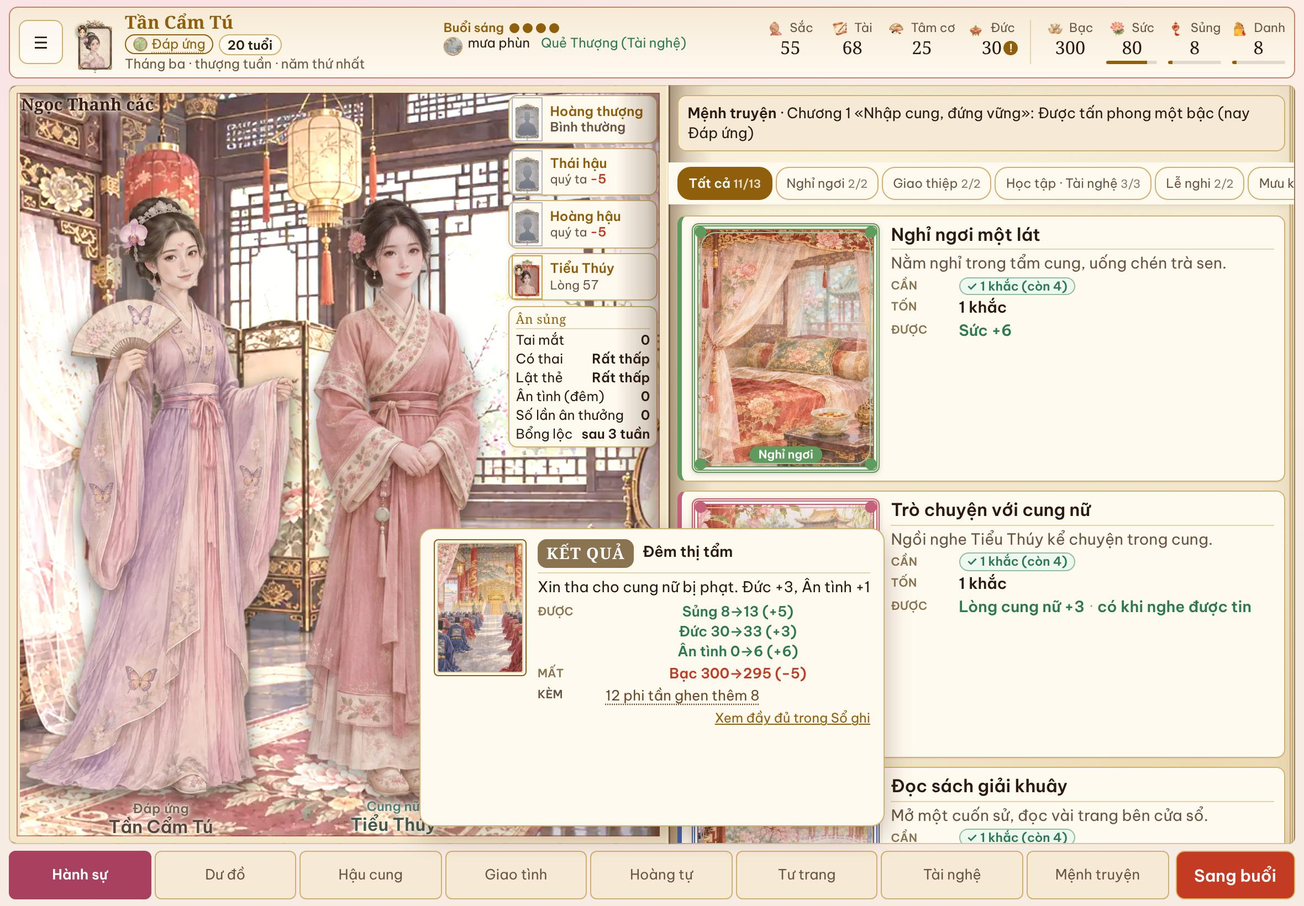
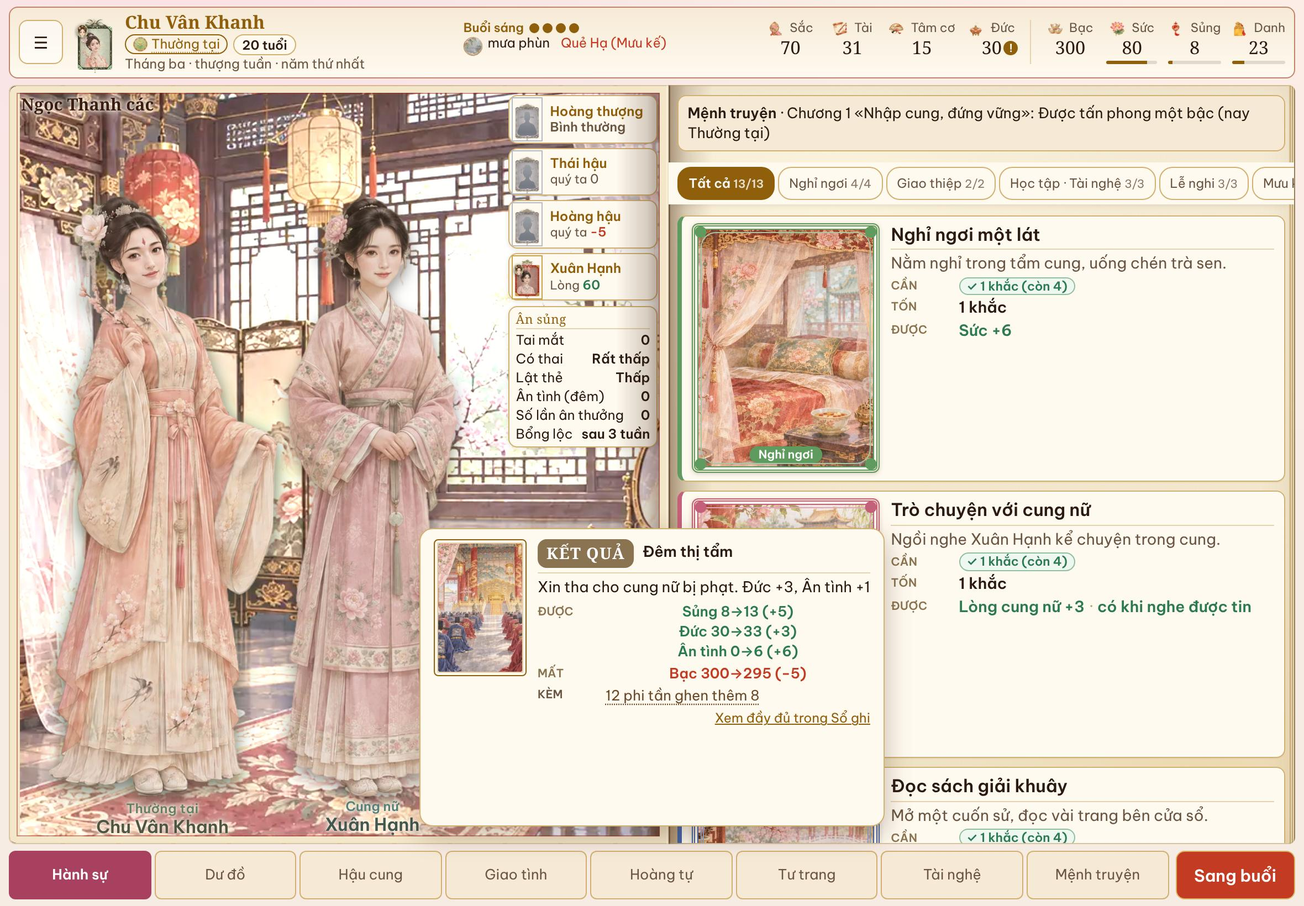
Lựa chọn sự kiện: giữ chế độ chỉ hiện giá (KIT 28.6, sếp đổi lại) + một dòng Gợi ý bằng chữ và nhãn rủi ro; thẻ kết quả giữ dấu theo lượt gieo và dòng Kèm
- jk2b: hoàn lại chế độ "cost" mặc định cho mọi lựa chọn sự kiện (chỉ Tốn / Cần, "Tốn: không" khi miễn phí — đúng thiết kế 28.6).
- Mới (sếp duyệt): mỗi lựa chọn sự kiện có dòng "Gợi ý" (kitHintOf) dựng từ chính các dòng kết cục thật của lựa chọn ở thời điểm này
  (người, cơ may, trạng thái hiện tại) ngay trước khi ẩn — không số, không nói dối, đổi theo bối cảnh; độ rõ theo Tâm cơ / Tai mắt
  (BAL.hintMid 25 / hintSharp 45 / hintMat 3): mơ hồ → rõ việc → gọi tên người phản ứng. Nhãn rủi ro an toàn / có rủi ro / liều từ chữ
  cơ may của chính lựa chọn. Lựa chọn có thể tự đặt hint / risk.
- Giữ từ trước: dấu THÀNH/HỎNG chỉ theo lượt gieo, không gieo → "KẾT QUẢ"; ghen/oán của người khác → dòng Kèm thu gọn.
- KIT 28.6 viết lại. Kiểm dev/test/opt-render.js: mọi PEND dựng được — 0 lỗi (có Tốn/Cần, có gợi ý không chữ số, có nhãn rủi ro, không
  Được/Mất/cơ may); cùng lựa chọn ở Tâm cơ 5 / 30 / 70 cho gợi ý mơ hồ / rõ / gọi tên (giu: "có lợi về lòng người trên" → "người trên
  hài lòng" → "Thái hậu hài lòng"); đêm có lợi + 12 người ghen → KẾT QUẢ, Kèm thu gọn.

Claude-Session: https://claude.ai/code/session_01V1ZZH1F24tkuejhCvtXqV8

diff --git a/dev/build/jk2b.js b/dev/build/jk2b.js
@@ -196,22 +196,77 @@ kitFigRects=function(){const st=$("stage");if(!st)return[];const out=[];st.query
    Use (data only): a Q / kitModal item with `hideOut:true` (every option) or an option with `hideOut:true`; any priced button may also carry
    `data-khide="1"`. An option with no such cost reads "Tốn: không". ---------- */
 const KIT_COSTRE=/khắc|\bSức\b|\bBạc\b|\bbạc\b/i;
+/* ---------- 6b. THE WORD HINT + RISK TAG on a hidden-outcome option (owner 11/15, KIT 28.6) ----------
+   Read from the option's OWN outcome rows (built by kaNorm1 from its real x / j67 text: the current odds and people of THIS moment) just
+   before they are hidden — so the hint is true for the current context and never a number. Clarity by her Tâm cơ / Tai mắt (BAL.hint*):
+   vague (only "có lợi về …" + "có cái giá"), plain (what changes), sharp (who reacts: Thái hậu, Hoàng hậu, the rival by name, Hoàng thượng).
+   Risk tag from the option's own odds word: none → "an toàn"; Liều / Khó → "liều"; any other ladder word → "có rủi ro".
+   An option may carry its own `hint` (string, or fn(level) → string) and `risk` ("an toàn" | "có rủi ro" | "liều"). */
+const KIT_HINT_LADDER=/(Liều|Khó|Năm ăn năm thua|Khá chắc|Rất chắc|Nắm chắc|Chắc)/;
+function kitHintLevel(){try{const t=S.tamco||0,m=S.mat||0;const B=typeof BAL==="object"?BAL:{};if(t>=(B.hintSharp||45)||m>=(B.hintMat||3))return 2;if(t>=(B.hintMid||25))return 1}catch(e){}return 0}
+/* one outcome phrase (numbers stripped) → [area, plain words, sharp words, sign] */
+function kitHintPhrase(t,sign){t=String(t||"").replace(/\s+/g," ").trim();if(!t)return null;const up=sign>0;const nm=(t.match(/^([^:]+?)\s+(?:Sủng|Danh|bớt|ghen|oán|quý)/)||[])[1]||"";
+ const L=[[/Thái hậu/i,"lòng người trên",up?"người trên hài lòng":"người trên phật ý",up?"Thái hậu hài lòng":"Thái hậu để bụng"],
+  [/Hoàng hậu/i,"lòng người trên",up?"người trên hài lòng":"người trên phật ý",up?"Hoàng hậu hài lòng":"Hoàng hậu sẽ để bụng"],
+  [/(^|\s)(nàng|hắn) Sủng|Sủng của|bớt sủng/i,"thế đối thủ",up?"đối thủ thất thế":"đối thủ được lợi",up?(nm&&!/^(nàng|hắn)$/.test(nm)?`${nm} thất thế`:"đối thủ thất thế"):"đối thủ được lợi"],
+  [/ghen|oán|ghét/i,"lòng người",up?"dễ kết oán":"nguôi giận",up?(nm?`${nm} sẽ thù`:"có kẻ sẽ thù"):(nm?`${nm} nguôi giận`:"có kẻ nguôi giận")],
+  [/quý ngươi|quý ta|thiện cảm|thân/i,"lòng người",up?"được lòng người":"mất lòng người",up?(nm?`${nm} ưa ngươi hơn`:"người ấy ưa ngươi hơn"):(nm?`${nm} không ưa ngươi`:"người ấy không ưa ngươi")],
+  [/chứng cứ/i,"thế mưu",up?"nắm thêm thóp":"lộ sơ hở",up?"nắm thêm thóp kẻ khác":"để lộ sơ hở"],
+  [/nghi|đa nghi|giận|quở|trách|phạt|giáng|cấm túc/i,"thánh ý",up?"được tin":"có thể bị nghi, bị phạt",up?"Hoàng thượng thêm tin":"Hoàng thượng có thể sinh nghi, trách phạt"],
+  [/thương con|hoàng tử|công chúa|\bcon\b/i,"phúc con cái",up?"con được thương":"con thiệt",up?"Hoàng thượng thương con hơn":"con bị lạnh nhạt"],
+  [/Ân tình/i,"tình nghĩa",up?"thêm tình nghĩa":"sứt mẻ tình nghĩa",up?"thêm tình nghĩa với Hoàng thượng":"sứt mẻ tình nghĩa với Hoàng thượng"],
+  [/Sủng|được ưa|thị tẩm/i,"ân sủng",up?"được để mắt":"bị lạt lẽo",up?"Hoàng thượng để mắt hơn":"Hoàng thượng lạt lẽo đi"],
+  [/Danh/i,"thể diện",up?"thêm thể diện":"mất thể diện",up?"thêm thể diện trong cung":"mất thể diện trước lục cung"],
+  [/Đức/i,"tiếng tốt",up?"được tiếng hiền":"mang tiếng ác",up?"được tiếng hiền đức":"mang tiếng thất đức"],
+  [/Bạc|lì xì/i,"tiền bạc",up?"có thêm bạc":"hao bạc",up?"có thêm bạc":"hao bạc"],
+  [/Sức|nghỉ/i,"sức khỏe",up?"dưỡng sức":"hao sức",up?"dưỡng sức":"hao sức"],
+  [/Sắc|Tài|Tâm cơ|Tai mắt|tài nghệ/i,"bản thân",up?"bản thân khá lên":"bản thân sút đi",up?"bản thân khá lên":"bản thân sút đi"],
+  [/Thái y|thuốc|bệnh|ốm|thai/i,"thân thể",up?"thân thể được giữ":"thân thể bị hại",up?"thân thể được giữ":"thân thể bị hại"]];
+ for(const [re,area,p1,p2] of L)if(re.test(t))return[area,p1,p2,sign];return["chuyện khác",up?"có lợi":"có hại",up?"có lợi":"có hại",sign]}
+function kitHintText(gain,loss,lv){const uniq=a=>[...new Set(a.filter(Boolean))];
+ if(lv===0){const ga=uniq(gain.map(x=>x[0])).slice(0,2),la=loss.length;
+  return (ga.length?`có lợi về ${ga.join(", ")}`:"chẳng được gì rõ")+(la?", nhưng có cái giá":"")}
+ const pick=x=>x[lv===2?2:1];const g=uniq(gain.map(pick)).slice(0,2),l=uniq(loss.map(pick)).slice(0,2);
+ return (g.length?g.join(", "):"không được gì rõ")+(l.length?`; nhưng ${l.join(", ")}`:"")}
+function kitHintOf(b,o){const rows={};b.querySelectorAll(".kb .kr").forEach(r=>{const l=((r.querySelector(".krl")||{}).textContent||"").trim();const v=r.querySelector(".krv");if(!v)return;
+  const parts=[...v.querySelectorAll(".ef, .kitem")].map(e=>e.textContent.trim()).filter(Boolean);(rows[l]=rows[l]||[]).push(...(parts.length?parts:[v.textContent.trim()]))});
+ const odText=((b.querySelector(":scope > .kat > .kodds")||{}).textContent||"")+" "+String(o&&o.x||"")+" "+String(o&&o.j67||"");
+ const od=(odText.match(KIT_HINT_LADDER)||[])[1]||"";const canFail=!!od||!!(rows["Mất"]&&/hỏng|không thành/i.test(String(o&&o.x||"")));
+ const risk=o&&o.risk?o.risk:!canFail?"an toàn":/^(Liều|Khó)$/.test(od)?"liều":"có rủi ro";
+ const lv=kitHintLevel();let hint="";
+ if(o&&o.hint)hint=typeof o.hint==="function"?o.hint(lv):String(o.hint);
+ else{const sg=s=>/(^|\s)[−-]\d|\bbớt\b|giảm/.test(s)?-1:1;
+  const gain=[],loss=[];(rows["Được"]||[]).concat(rows["Thành"]||[]).forEach(t=>{const s=sg(t);const p=kitHintPhrase(t,s);if(!p)return;/* a loss of someone else listed as her gain ("nàng Sủng -10") reads as the rival's fall */
+   if(/(^|\s)(nàng|hắn) |của /i.test(t)&&s<0)gain.push(kitHintPhrase(t,1));else(s>0?gain:loss).push(p)});
+  (rows["Mất"]||[]).concat(rows["Hỏng"]||[],rows["Kèm"]||[]).forEach(t=>{if(/không mất gì|không tốn gì/i.test(t))return;const s=sg(t);const up=/ghen|oán|ghét/i.test(t)?1:-1;
+   const p=kitHintPhrase(t,/ghen|oán|ghét/i.test(t)?(s>0?1:-1):(s>0&&!/(^|\s)[−-]\d/.test(t)&&!/nghi|phạt|trách|giận|quở/i.test(t)?-1:-1));if(p)loss.push(p);void up});
+  hint=kitHintText(gain,loss,lv)}
+ return{hint,risk}}
 function kitHideOut(b){try{if(!b||!b.classList.contains("ka")||b.dataset.khid==="1")return;b.dataset.khid="1";b.classList.add("khideout");
+ /* the hint + risk tag, read from the outcome rows before they go */
+ let H=null;try{const M=b.closest("#modal");const o=M&&typeof Q!=="undefined"&&Q[0]&&Q[0].opts&&b.dataset.m!=null?Q[0].opts[+b.dataset.m]:null;H=kitHintOf(b,o)}catch(e){console.error("kitHint",e)}
  const od=b.querySelector(":scope > .kat > .kodds");if(od&&b.dataset.kodds!=="1")od.remove();b.querySelectorAll(".kb .kr").forEach(r=>{if(!r.classList.contains("kr-ton")&&!r.classList.contains("kr-why"))r.remove()});
  const kb=b.querySelector(".kb");let ton=b.querySelector(".kr-ton");if(ton){const v=ton.querySelector(".krv");[...v.children].forEach(e=>{if(e.classList.contains("ksep"))return;if(!KIT_COSTRE.test(e.textContent))e.remove()});
   [...v.children].forEach((e,i,a)=>{if(e.classList.contains("ksep")&&(!e.previousElementSibling||e.previousElementSibling.classList.contains("ksep")||!e.nextElementSibling))e.remove()});
-  if(!v.querySelector(".ef"))ton.remove()}
- /* never a "Tốn: không" row (owner 11/15): an option that costs nothing shows no Tốn row */}catch(e){console.error("kitHideOut",e)}}
-(function(){const n0=kaNorm1;kaNorm1=function(b){const r=n0.apply(this,arguments);try{if(b&&b.dataset&&(b.dataset.khide==="1"||b.closest("[data-khide-all]")))kitHideOut(b)}catch(e){}
- /* no "Tốn: không" row anywhere (owner 11/15): a cost row whose only value is "không" goes */
- try{if(b&&b.querySelectorAll)b.querySelectorAll(".kr.kr-ton").forEach(t=>{const v=t.querySelector(".krv");if(v&&/^\s*không\s*$/i.test(v.textContent))t.remove()})}catch(e){}return r}})();
+  if(!v.querySelector(".ef"))v.innerHTML=`<span class="ef n">không</span>`}
+ else if(kb){kb.insertAdjacentHTML("beforeend",`<span class="kr kr-ton"><span class="krl">Tốn</span><span class="krv"><span class="ef n">không</span></span></span>`)}
+ else b.insertAdjacentHTML("beforeend",`<small class="kb"><span class="kr kr-ton"><span class="krl">Tốn</span><span class="krv"><span class="ef n">không</span></span></span></small>`)
+ if(H){const kb2=b.querySelector(".kb");if(kb2&&H.hint)kb2.insertAdjacentHTML("beforeend",`<span class="kr kr-hint"><span class="krl">Gợi ý</span><span class="krv"><span class="ef n khint">${H.hint}</span></span></span>`);
+  const kat=b.querySelector(":scope > .kat");const cls=H.risk==="an toàn"?"safe":H.risk==="liều"?"bold":"risk";
+  if(kat&&!kat.querySelector(".krisk"))kat.insertAdjacentHTML("beforeend",`<span class="krisk krisk-${cls}" title="${H.risk==="an toàn"?"việc này không hỏng được":H.risk==="liều"?"dễ hỏng":"có thể hỏng"}">${H.risk}</span>`)}}catch(e){console.error("kitHideOut",e)}}
+(function(){const st=document.createElement("style");st.id="k-hint";st.textContent=`
+.ka .kr.kr-hint .krv .khint{font-style:italic;color:var(--ink2,#6b4a2a);font-weight:500}
+.ka>.kat>.krisk{flex:0 0 auto;margin-left:auto;font-size:.72rem;font-weight:700;letter-spacing:.02em;padding:1px 8px;border-radius:999px;border:1px solid;white-space:nowrap}
+.ka>.kat>.krisk-safe{color:#3f7a52;border-color:#a9d3b5;background:#eef8f0}
+.ka>.kat>.krisk-risk{color:#8a6420;border-color:#e2c98f;background:#fbf3df}
+.ka>.kat>.krisk-bold{color:#a0301e;border-color:#e6a99c;background:#fbeae6}
+`;document.head.appendChild(st)})();
+(function(){const n0=kaNorm1;kaNorm1=function(b){const r=n0.apply(this,arguments);try{if(b&&b.dataset&&(b.dataset.khide==="1"||b.closest("[data-khide-all]")))kitHideOut(b)}catch(e){}return r}})();
 /* ON BY DEFAULT for every event choice, found at the shared builders: an item made by pushDil / pushFront / mkP (it carries pid / pp: weekly
    events j68, Mệnh truyện chapters j67, side events, dilemmas j70, story lines j96/j97 and any later module using them) or a kit choice panel
    (kit.kind "choice"). An item may opt out with showOut:true (never for events). */
 function kitIsEventChoice(m){return !!(m&&m.opts&&m.opts.length&&!m.showOut&&(m.hideOut||("pid" in m)||("pp" in m)||(m.kit&&(m.kit.kind==="choice"||m.kit.hideOut))))}
-/* owner 11/15 (reverses 11/14): event choices are NOT hidden by default any more — every option shows Cần / Tốn / Được / Mất / Kèm + odds
-   like an act card (kaNorm1 parses the option's x / j67 text). Only an item or option that sets hideOut:true itself hides its outcomes. */
-(function(){const s0=showModal;showModal=function(){const m=Q[0];const r=s0.apply(this,arguments);try{if(m&&m.opts&&(m.hideOut||m.opts.some(o=>o&&o.hideOut))){
+(function(){const s0=showModal;showModal=function(){const m=Q[0];if(kitIsEventChoice(m))m.hideOut=true;const r=s0.apply(this,arguments);try{if(m&&m.opts&&(m.hideOut||m.opts.some(o=>o&&o.hideOut))){
   document.querySelectorAll("#modal .opts > button[data-m], #modal .opts button.opt").forEach(b=>{const o=m.opts[+b.dataset.m];if(o&&o.showOut)return;if(m.hideOut||(o&&o.hideOut)){if(o&&o.showOdds)b.dataset.kodds="1";b.dataset.khide="1";if(b.classList.contains("ka"))kitHideOut(b)}})}}catch(e){console.error("hideOut",e)}return r}})();
 /* ACT-LIKE OPTIONS inside a dialog (kit owner #2): an option may carry showOdds:true — it keeps its odds word (Liều … Nắm chắc) beside the
    cost while the dialog's other outcomes stay hidden — or showOut:true — the full act card (Được / Mất / odds), e.g. "Xin ban", "Mua lén". */

diff --git a/dev/test/opt-render.js b/dev/test/opt-render.js
@@ -1,9 +1,11 @@
-/* review/opt-render (owner 11/15, live bug): event choices showed only "TỐN không" — the 11/14 "hidden outcomes for events" mode
-   (jk2b kitHideOut, on by default for every pushDil / PEND item) stripped Được / Mất / odds. Now off by default; no "Tốn: không" row.
-   Also the result card: THÀNH / HỎNG only from the act's own roll, else the neutral "KẾT QUẢ"; others' ghen / oán in a collapsed KÈM line.
+/* review/opt-render (owner 11/15): event choices keep the KIT 28.6 "cost" mode — ONLY Tốn (Sức / Bạc / khắc; "Tốn: không" when free) and
+   Cần, never Được / Mất / odds (the choice stays suspenseful; the owner's design, confirmed after a short reversal).
+   The result card: THÀNH / HỎNG only from the act's own roll, else the neutral "KẾT QUẢ"; others' ghen / oán in a collapsed KÈM line.
    usage: node dev/test/opt-render.js <build page url> <outdir> [WxH@dpr]   (default 1180x820@2)
-   Prints, per dialog: every option with its rows; FAILS: an option whose data carries an outcome (x / j67 text with "thành:", "+N",
-   "-N") but renders no Được / Mất row, a wrong number, or any "Tốn: không" row. */
+   Each event option also carries ONE word hint ("Gợi ý", no numbers, true for this moment) and a risk tag (an toàn / có rủi ro / liều).
+   Prints, per dialog: every option with its rows; FAILS: an event option that shows a Được / Mất / Kèm row or an odds word, no Tốn / Cần
+   row, no hint line, a digit in the hint, or no risk tag. "Thôi" / "Lui" (close options) are skipped. Also checks the hint gets sharper
+   with Tâm cơ (vague → names who reacts). */
 const {chromium}=require('playwright');const fs=require('fs');
 const [,,PAGE,OUT,SZ]=process.argv;fs.mkdirSync(OUT,{recursive:true});const sleep=t=>new Promise(r=>setTimeout(r,t));
 (async()=>{const [wh,dpr]=(SZ||"1180x820@2").split("@");const [W,H]=wh.split("x").map(Number);const b=await chromium.launch();
@@ -31,8 +33,10 @@ const [,,PAGE,OUT,SZ]=process.argv;fs.mkdirSync(OUT,{recursive:true});const slee
    /* numbers of the data's "thành:" / plain outcome part must appear in the rows */
    const nums=(src.replace(/^[^·]*?(Liều|Khó|Năm ăn năm thua|Khá chắc|Chắc|Rất chắc|Nắm chắc)\s*·\s*/,"").match(/[A-ZĐÀ-Ỹa-zà-ỹ ]{2,}\s[+\-−]\d+/g)||[]).map(x=>x.trim().replace("−","-"));
    const rowTxt=rows.map(r=>r[1]).join(" · ").replace(/−/g,"-");const miss=nums.filter(x=>!rowTxt.includes(x.split(/\s(?=[+\-]\d)/).pop()));
-   const tonKhong=rows.some(([l,v])=>/^Tốn$/i.test(l)&&/^không$/i.test(v));
-   return{n:T(o.n).slice(0,40),src:src.slice(0,90),outcome,has,miss,tonKhong,rows:rows.map(r=>r.join(": ")).slice(0,5)}})});
+   const tonKhong=rows.some(([l,v])=>/^Tốn$/i.test(l)&&/^không$/i.test(v));const ton=rows.some(([l])=>/^Tốn$/i.test(l));
+   const odds=!!b.querySelector(".kodds");const hint=T((b.querySelector(".kr-hint .krv")||{}).textContent);const risk=T((b.querySelector(".krisk")||{}).textContent);const can=rows.some(([l])=>/^Cần$/i.test(l));const ownShow=!!(o.showOut||m.showOut);
+   const has2=rows.some(([l])=>/^(Được|Mất|Thành|Hỏng|Kèm)$/i.test(l));
+   return{n:T(o.n).slice(0,40),src:src.slice(0,90),outcome,has:has2,miss,tonKhong,ton,can,odds,ownShow,hint,risk,rows:rows.map(r=>r.join(": ")).slice(0,5)}})});
  const close=()=>p.evaluate(()=>{Q.length=0;const md=document.getElementById('modal');md.hidden=true;render()});
  const R={sz:SZ||"1180x820@2",dialogs:{},fails:[]};
  const openP=async(id,pp,title)=>{const ok=await p.evaluate(([id,pp,title])=>{try{const d=mkP(id,pp||{});if(!d||!d.o||!d.o.length)return false;pushDil(d,title||id);showModal();return true}catch(e){return "ERR "+e.message}},[id,pp,title]);
@@ -41,12 +45,18 @@ const [,,PAGE,OUT,SZ]=process.argv;fs.mkdirSync(OUT,{recursive:true});const slee
  const ids=await p.evaluate(()=>Object.keys(PEND));
  const PP={night2:{s:5},night1:{q:3,vp:0}};
  for(const id of ids){const a=await openP(id,PP[id]||{});if(!a||typeof a==="string"){R.dialogs[id]=a||"no options";continue}R.dialogs[id]=a;
-  for(const o of a){if(o.hidden)continue;if(o.tonKhong)R.fails.push([id,o.n,"Tốn: không"]);if(o.outcome&&!o.has)R.fails.push([id,o.n,"no Được/Mất row",o.src]);if(o.outcome&&o.has&&o.miss.length)R.fails.push([id,o.n,"missing numbers",o.miss.join(", ")])}}
+  for(const o of a){if(o.hidden||o.ownShow||/^(Thôi|Lui|Đóng)$/.test(o.n))continue;if(o.has)R.fails.push([id,o.n,"outcome shown on an event choice",o.rows.join(" / ")]);if(!o.ton&&!o.can)R.fails.push([id,o.n,"no Tốn / Cần row"]);if(o.odds)R.fails.push([id,o.n,"odds word shown"]);
+   if(!o.hint)R.fails.push([id,o.n,"no hint"]);else if(/\d/.test(o.hint))R.fails.push([id,o.n,"number in hint",o.hint]);if(!/^(an toàn|có rủi ro|liều)$/.test(o.risk))R.fails.push([id,o.n,"no risk tag"])}}
+ /* the same option read by a careless and a sharp woman: the sharp hint names who reacts */
+ R.levels=await p.evaluate(async()=>{const W=t=>new Promise(r=>setTimeout(r,t));const out={};const t0=S.tamco,m0=S.mat;
+  for(const [k,tc,mt] of [["vague",5,0],["plain",30,0],["sharp",70,3]]){S.tamco=tc;S.mat=mt;Q.length=0;pushDil(mkP("giu",{}),"Giữ hay không giữ");showModal();await W(400);
+   out[k]=[...document.querySelectorAll('#mb .opt')].map(b=>`${(b.querySelector('.kan')||b).textContent.trim()} — ${(b.querySelector('.kr-hint .krv')||{}).textContent||""} [${(b.querySelector('.krisk')||{}).textContent||""}]`)}
+  S.tamco=t0;S.mat=m0;Q.length=0;document.getElementById('modal').hidden=true;render();return out});
  /* night2 shot */
  await p.evaluate(()=>{pushDil(mkP("night2",{s:5}),"Gối đầu");showModal()});await sleep(900);await p.screenshot({path:`${OUT}/night2-${wh}.jpg`,type:'jpeg',quality:74});await close();
  /* "Có người đến": the visitor builders (approachOne) until a few with options came */
  R.visitors=[];for(let i=0;i<60&&R.visitors.length<5;i++){const got=await p.evaluate(()=>{Q.length=0;let m=null;try{m=approachOne()}catch(e){return null}if(!m||!m.opts||!m.opts.length)return null;Q.push(m);showModal();return m.t},null);
-  if(!got)continue;await sleep(400);const a=await audit();if(a){R.visitors.push(a);for(const o of a){if(o.hidden)continue;if(o.tonKhong)R.fails.push(["visitor",o.n,"Tốn: không"]);if(o.outcome&&!o.has)R.fails.push(["visitor",o.n,"no Được/Mất row",o.src])}}
+  if(!got)continue;await sleep(400);const a=await audit();if(a){R.visitors.push(a)}
   if(R.visitors.length===1)await p.screenshot({path:`${OUT}/visitor-${wh}.jpg`,type:'jpeg',quality:74});await close()}
  /* the result card: a night with gains + mass jealousy + the night's own Bạc cost → no BẠI, a collapsed KÈM line */
  R.night=await p.evaluate(async()=>{const W=t=>new Promise(r=>setTimeout(r,t));const b=rsnap();S.sung+=5;S.duc+=3;S.an=(S.an||0)+6;S.bac-=5;
@@ -59,5 +69,5 @@ const [,,PAGE,OUT,SZ]=process.argv;fs.mkdirSync(OUT,{recursive:true});const slee
  R.rolled=await p.evaluate(async()=>{const W=t=>new Promise(r=>setTimeout(r,t));const b=rsnap();S.danh-=3;resultShow("Tung tin đồn",b,false);await W(300);const t=document.getElementById('rtoast');const s1=(t.querySelector('.seal')||{}).textContent;
   const b2=rsnap();S.danh+=3;resultShow("Thỉnh an",b2,true);await W(300);return{fail:s1,ok:(t.querySelector('.seal')||{}).textContent}});
  if(R.rolled.fail!=="HỎNG"||R.rolled.ok!=="THÀNH")R.fails.push(["rolled seals",JSON.stringify(R.rolled)]);
- R.errs=errs;console.log(JSON.stringify({sz:R.sz,fails:R.fails,night:R.night,rolled:R.rolled,visitors:R.visitors.length,errs,
-  dialogs:Object.fromEntries(Object.entries(R.dialogs).map(([k,v])=>[k,Array.isArray(v)?v.map(o=>o.hidden?`(${o.n}: ✕)`:`${o.n} | ${o.rows.join(" / ")}`):v]))},null,1));await b.close()})().catch(e=>{console.error(e);process.exit(1)});
+ R.errs=errs;console.log(JSON.stringify({sz:R.sz,fails:R.fails,levels:R.levels,night:R.night,rolled:R.rolled,visitors:R.visitors.length,errs,
+  dialogs:Object.fromEntries(Object.entries(R.dialogs).map(([k,v])=>[k,Array.isArray(v)?v.map(o=>o.hidden?`(${o.n}: ✕)`:`${o.n} [${o.risk}] | ${o.rows.join(" / ")}`):v]))},null,1));await b.close()})().catch(e=>{console.error(e);process.exit(1)});

diff --git a/dev/build/jbal.js b/dev/build/jbal.js
@@ -1,7 +1,9 @@
 /* ================= BALANCE KNOBS (measured with the sensible / random bots; see the report) ================= */
 const BAL={outQ:85,hz:3.2,conc:.25,later:6,hhTh:55,birthAdd:4,
  /* ONE SOURCE for every promotion threshold the player sees (checks in promoReqP/candOK and every text read these) */
- hhThNoSon:80,hhThNoSonHieu:70,hhDuc:50,hhDucHeir:40,qBlockHh:-40,qBlockTh:50,hiOppHh:-30,hiOppTh:30,hiOppFac:180};
+ hhThNoSon:80,hhThNoSonHieu:70,hhDuc:50,hhDucHeir:40,qBlockHh:-40,qBlockTh:50,hiOppHh:-30,hiOppTh:30,hiOppFac:180,
+ /* event-choice hints (KIT 28.6): Tâm cơ below hintMid → a vague hint; from hintMid → plain; from hintSharp (or Tai mắt ≥ hintMat) → names who reacts */
+ hintMid:25,hintSharp:45,hintMat:3};
 /* what the Hoàng hậu seat asks of p (the same numbers the checks use) */
 function hhNeed(p){p=p||S;const sn=sonsOf(p).length>0,hieu=typeof has==="function"&&has("hieuthao");const heir=!!(S.heir&&S.heir.k&&S.heir.k.alive&&S.heir.v===(p===S?null:p));
  return{sons:sn,th:sn?BAL.hhTh:(hieu?BAL.hhThNoSonHieu:BAL.hhThNoSon),duc:heir?BAL.hhDucHeir:BAL.hhDuc,heir}}

diff --git a/dev/kit/KIT.md b/dev/kit/KIT.md
@@ -670,14 +670,25 @@ for the figure. Phone portrait: stage 40 % of the screen on scene tabs, 24 % on 
 ### 28.5 "COVERS NO FIGURE" = the painted silhouette
 `kitFigRects()` (j79, replaced in jk2b) returns per figure 24 horizontal bands with the opaque extent of the art (alpha mask read once per picture),
 so stage blocks may stand beside a head or between figures, never over the painted body. Used by #kstat, #kcourt and every later stage overlay.
-### 28.6 OPTION MODE "cost" (hidden outcomes for EVENT choices) — RETIRED 11/15 (owner: "event choices show no Được/Mất, she can't decide")
-- Event choices now show the full act card: Cần / Tốn / Được / Mất / Kèm + the odds ladder, parsed from the option's x / j67 text (kaNorm1),
-  like every act card. The mode below is OFF by default (`kitIsEventChoice` no longer sets hideOut); only an item / option that sets
-  `hideOut:true` itself still hides (none does). There is never a "Tốn: không" row: an option that costs nothing has no Tốn row.
-  Test: `dev/test/opt-render.js` (every PEND dialog + visitors: an option whose data has an outcome renders a Được or Mất row with its numbers).
-Old text, kept for history:
+### 28.6 OPTION MODE "cost" (hidden outcomes for EVENT choices)
 - Event choices (weekly events j68, Mệnh truyện chapters j67, side events, dilemmas) show ONLY the cost: the Tốn row with Sức / khắc / Bạc
-  (`.ka.khideout`); no Được / Mất / Kèm / Ghi chú rows and no odds meter. Conditions (Cần row) stay.
+  (`.ka.khideout`); no Được / Mất / Kèm / Ghi chú rows and no odds meter. No cost → "Tốn: không". Conditions (Cần row) stay.
+- Owner 11/15 (confirmed again after a one-hour reversal): event choices stay suspenseful — main story, side stories, festivals, NPC
+  visits, toilette reactions, every event. Normal acts, person-card acts, the shop and gifts keep the full numbers.
+- WORD HINT + RISK TAG (owner 11/15, approved design) — every event option shows, under its Tốn / Cần:
+  · ONE hint line "Gợi ý: …" (`.kr-hint`), words only, no number, built by `kitHintOf` (jk2b) from the option's OWN outcome rows just
+    before they are hidden — i.e. from its real x / j67 text, computed at this moment from the current people, odds and her state — so
+    the hint is TRUE now and changes when the context changes (no fixed answer to memorise). Phrases map the effect (Sủng, Danh, Đức,
+    Ân tình, Bạc, Sức, quý / ghen / oán, chứng cứ, nghi / phạt, con, …) and its sign; a rival's loss listed as her gain reads as the rival's fall.
+  · Clarity by her Tâm cơ / Tai mắt (`BAL.hintMid` 25, `BAL.hintSharp` 45, `BAL.hintMat` 3): below hintMid VAGUE ("có lợi về thể diện,
+    nhưng có cái giá"); from hintMid PLAIN ("người trên hài lòng; nhưng bị lạt lẽo"); from hintSharp or Tai mắt ≥ hintMat SHARP, naming who
+    reacts ("Thái hậu để bụng", "<tên> thất thế", "Hoàng thượng có thể sinh nghi, trách phạt").
+  · A RISK TAG in the option head (`.krisk`): "an toàn" (no odds: cannot fail), "có rủi ro" (any ladder word from Năm ăn năm thua up),
+    "liều" (Liều / Khó). Never the odds word or a percentage.
+  · Hand-written override per option: `hint` (string or fn(level)) and `risk`. Hints may never lie: an override must match the data.
+- After the choice the result card shows the full Được / Mất + why, and the Tuần lục logs the truth.
+- The balance of the hidden outcomes is audited instead (dev/review/event-balance.md). Test: `dev/test/opt-render.js` (every PEND dialog:
+  Tốn or Cần, a hint without digits, a risk tag, no Được / Mất / odds; the same option read at Tâm cơ 5 / 30 / 70 gets vague / plain / sharp).
 - The result card (section 7) is unchanged and shows the true numbers after the choice.
 - ON BY DEFAULT for event choices at the shared builders (`kitIsEventChoice`): every item made by `pushDil` / `pushFront` / `mkP` (it carries
   `pid`/`pp`: j68 weekly events, j67 chapters, side events, j70 dilemmas, j96/j97 story lines, any later module) and every kit choice panel
